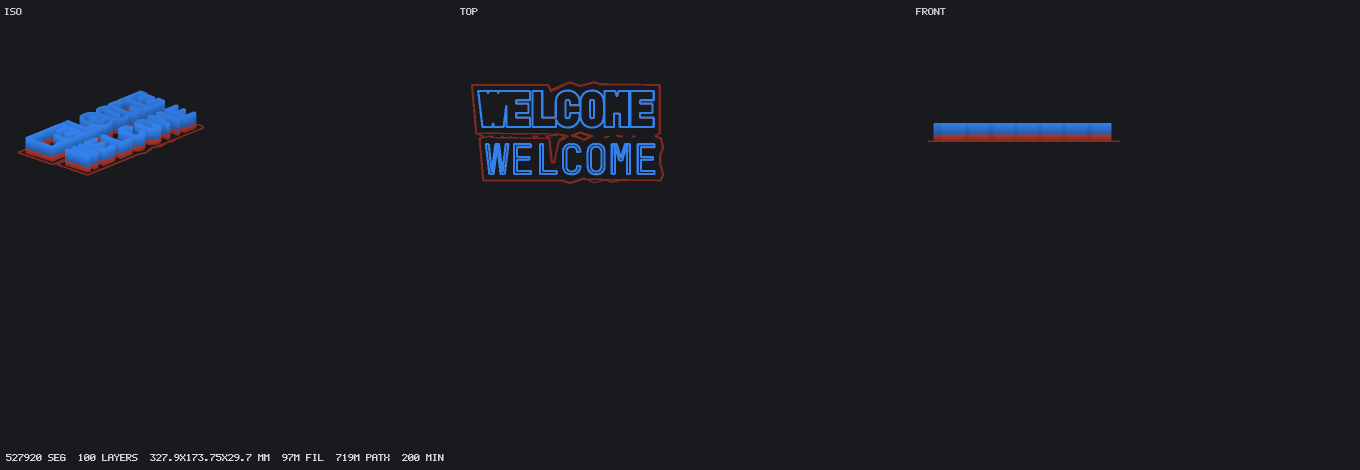
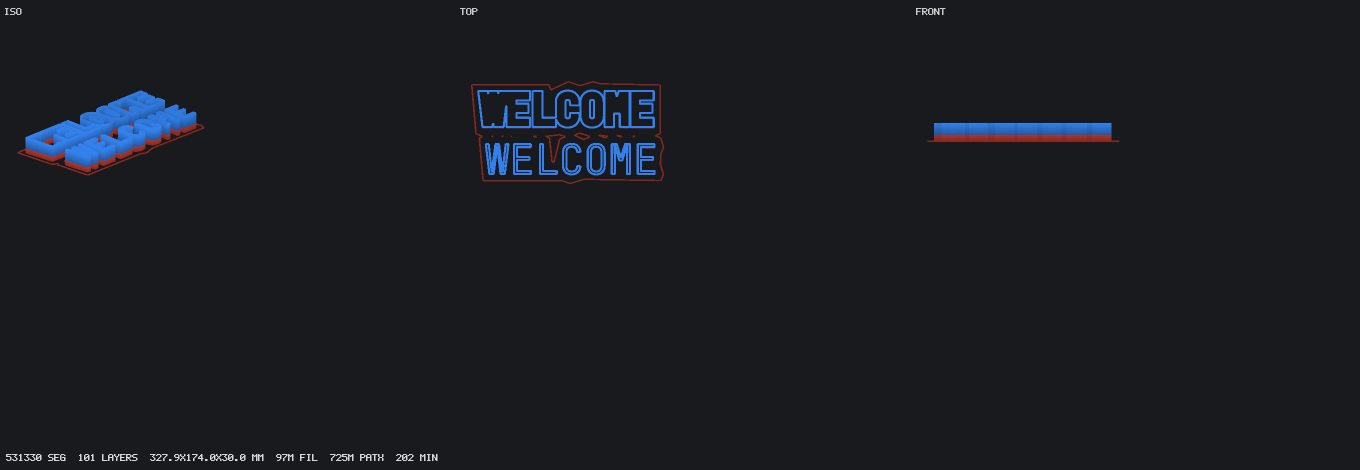
revision 3: layer count floor+1 proven by a real ZCCAD 30mm export; conditional extruder-switch marker; --pre-passes flag

diff --git a/.qoder/skills/letterlab-skill/scripts/dialect_check.py b/.qoder/skills/letterlab-skill/scripts/dialect_check.py
@@ -39,10 +39,18 @@ def shape(line):
 
 
 def scan(path):
-    """Return (shapes, e_per_mm_samples, markers) for one file."""
+    """Return (shapes, e_per_mm_samples, markers, body_tools) for one file.
+
+    `body_tools` counts only the tools that appear AFTER the first
+    `;start printf`, i.e. the ones that actually print. Every export pre-heats and
+    purges every configured nozzle, so counting all `T` words would report a
+    single-colour job as two tools.
+    """
     shapes = set()
     markers = []
     ratios = []
+    body = False
+    body_tools = set()
     x = y = z = 0.0
     e_abs = 0.0
     rel = False
@@ -53,9 +61,13 @@ def scan(path):
                 continue
             if s.startswith(";"):
                 markers.append(s)
+                if s == ";start printf":
+                    body = True
                 continue
             if RT.match(s):
                 shapes.add(shape(s))
+                if body:
+                    body_tools.add(int(RT.match(s).group(1)))
                 continue
             if s.startswith("G92"):
                 v = {k: float(n) for k, n in RX.findall(s)}
@@ -94,7 +106,7 @@ def scan(path):
                 if d > 1e-6:
                     ratios.append(de / d)
             x, y, z = nx, ny, nz
-    return shapes, ratios, markers
+    return shapes, ratios, markers, body_tools
 
 
 def main(argv):
@@ -135,7 +147,7 @@ def main(argv):
     n_ok = 0
     print("== corpus ==")
     for f in files:
-        sh, ratios, mk = scan(f)
+        sh, ratios, mk, _ = scan(f)
         r = sorted(ratios)
         med = r[len(r) // 2] if r else None
         # a file whose E/mm is orders of magnitude off is a broken export, not a
@@ -173,12 +185,17 @@ def main(argv):
     bad = 0
     for t in tests:
         print("\n== test: %s ==" % os.path.basename(t))
-        sh, ratios, mk = scan(t)
+        sh, ratios, mk, body_tools = scan(t)
         novel = sorted(sh - set(vocab))
+        # `;extruder switch` is not universal: the vendor's own single-tool export
+        # (101 layers, T0 only) omits it, while every 2- and 3-tool export has it.
+        req = set(required)
+        if len(body_tools) <= 1:
+            req.discard(";extruder switch")
         r = sorted(ratios)
         emm = r[len(r) // 2] if r else 0.0
         dev = abs(emm - ref) / ref if ref else 1.0
-        missing = sorted(required - set(mk))
+        missing = sorted(req - set(mk))
         ok = not novel and dev < 1e-6 and not missing
 
         print("   line shapes   : %d" % len(sh))
@@ -191,6 +208,10 @@ def main(argv):
               % (len(mk), len(missing), "" if not missing else "<-- MISSING"))
         for m in missing:
             print("        %s" % m)
+        print("   tools printing: %d%s"
+              % (len(body_tools),
+                 "  (single tool: `;extruder switch` not required)"
+                 if len(body_tools) <= 1 else ""))
         print("   verdict       : %s" % ("CONFORMS" if ok else "DOES NOT CONFORM"))
         if not ok:
             bad += 1

diff --git a/.qoder/skills/letterlab-skill/scripts/selftest.py b/.qoder/skills/letterlab-skill/scripts/selftest.py
@@ -202,13 +202,33 @@ def test_hem():
 
 
 def _gen(out):
+    return _gen_args(out, [])
+
+
+# The golden reference A_SAMPLE_50mm.gcode was built with these exact parameters.
+# They must be passed explicitly: the live S528\GcodePara.ini changes whenever
+# someone works in the GUI, and reading height from it silently compared a 30 mm
+# job against a 50 mm reference.
+GOLDEN_ARGS = ["--height", "50", "--layer", "0.3", "--width", "1.2",
+               "--passes", "1", "--spacing", "0.8",
+               "--bands", "10,30,10", "--glue", "1,2,1",
+               "--speed", "3600", "--first-speed", "1800", "--pre-passes", "2"]
+
+
+def _gen_args(out, extra):
+    """Generate with the golden parameters, then any test-specific overrides.
+
+    Later options win in argparse, so `extra` can override `--height` and
+    `--bands` for tests that need a different job shape.
+    """
     env = dict(os.environ)
     env["PYTHONPATH"] = os.path.join(REPO, "work")
-    return subprocess.run(
-        ["python", "-m", "lettergcode", "--dxf", FIXTURE, "--out", out,
-         "--ini", os.path.join(REPO, "S528", "GcodePara.ini")],
-        cwd=os.path.join(REPO, "work"), env=env,
-        stdout=subprocess.DEVNULL, stderr=subprocess.DEVNULL).returncode
+    cmd = (["python", "-m", "lettergcode", "--dxf", FIXTURE, "--out", out,
+            "--ini", os.path.join(REPO, "S528", "GcodePara.ini")]
+           + GOLDEN_ARGS + list(extra))
+    return subprocess.run(cmd, cwd=os.path.join(REPO, "work"), env=env,
+                          stdout=subprocess.DEVNULL,
+                          stderr=subprocess.DEVNULL).returncode
 
 
 def _vendor_refs_present():
@@ -287,17 +307,6 @@ def test_simulator(tmp):
     check("T8 simulator tool/layer/E-modal", ok_tools and ok_layers and ok_rel,
           "tools=%s layers=%d len=%s" % (st["tools"], st["layers"],
                                          {k: round(v, 1) for k, v in st["length_by_tool_mm"].items()}))
-
-
-def _gen_args(out, extra):
-    """Generate with extra CLI flags, so a test can drive a specific job shape."""
-    env = dict(os.environ)
-    env["PYTHONPATH"] = os.path.join(REPO, "work")
-    cmd = ["python", "-m", "lettergcode", "--dxf", FIXTURE, "--out", out,
-           "--ini", os.path.join(REPO, "S528", "GcodePara.ini")] + list(extra)
-    return subprocess.run(cmd, cwd=os.path.join(REPO, "work"), env=env,
-                          stdout=subprocess.DEVNULL,
-                          stderr=subprocess.DEVNULL).returncode
 
 
 def test_no_zero_temp(tmp):

diff --git a/work/lettergcode/params.py b/work/lettergcode/params.py
@@ -11,20 +11,27 @@ from dataclasses import dataclass, field, fields
 
 
 def _layers_for(mm, h):
-    """Layer count for a height, rounded the way ZCCAD rounds it: UP.
+    """Layer index a height maps to, the way ZCCAD computes it: floor + 1.
 
-    Measured against a 3-tool vendor export (`TES .gcode`, 50.1 mm, bands
-    10/30/10): the first band boundary sits at z=10.20, which is 34 layers, not
-    the 33 that rounding gives. 10 / 0.3 = 33.33, and ZCCAD rounds up so a band is
-    never thinner than asked. The total is 167 layers either way here, so the band
-    boundary is what exposes the rule.
+    Proven on four independent exports whose requested height is known:
 
-    The epsilon keeps float noise from adding a phantom layer: 9 / 0.3 evaluates
-    to 30.000000000000004, which must still be 30 layers.
+        30 mm / 0.3  -> 101 layers, top z=30.30   (`welcome tes.gcode`, `1.gcode`)
+        50 mm / 0.3  -> 167 layers, top z=50.10   (`A_SAMPLE_50mm.gcode`, `TES .gcode`)
+        30 mm / 0.5  ->  61 layers, top z=30.50   (`Welcome new tes.gcode`)
+
+    `ceil` agrees with all three except where the division is exact, and an exact
+    division is precisely the 30 mm case: ceil gives 100, the vendor gives 101.
+    ZCCAD always rounds up by one extra layer, so the part is never short.
+
+    Used for both the total layer count and cumulative colour-band boundaries;
+    callers must pass a CUMULATIVE height for bands, not the per-band height.
+
+    The epsilon absorbs float noise: 30 / 0.3 evaluates to 100.00000000000001
+    and must floor to 100, not 101.
     """
     if not h or h <= 0:
         return 1
-    return max(1, int(math.ceil(mm / h - 1e-9)))
+    return max(1, int(math.floor(mm / h + 1e-9)) + 1)
 
 
 def _f(v, default=0.0):
@@ -270,11 +277,16 @@ class Params:
         if self.reverse_zones:
             zones.reverse()
         plan = []
+        cum = 0.0
         for i, (hi, gl) in enumerate(zones):
             if i == len(zones) - 1:
                 k = total - len(plan)
             else:
-                k = _layers_for(hi, h)
+                # cumulative, not per-band: ZCCAD's boundary for a 10 mm band is
+                # layer 34 and for 10+30 mm it is layer 134, which only a
+                # cumulative floor+1 reproduces.
+                cum += hi
+                k = _layers_for(cum, h) - len(plan)
             plan.extend([gl] * max(0, k))
         plan = plan[:total]
         while len(plan) < total:

diff --git a/.qoder/skills/letterlab-skill/scripts/letterlab.py b/.qoder/skills/letterlab-skill/scripts/letterlab.py
@@ -67,6 +67,7 @@ def cmd_generate(a, rest=None):
                       ("--seat-w", a.seat_w), ("--min-area", a.min_area),
                       ("--max-area", a.max_area), ("--seat-depth", a.seat_depth),
                       ("--seat-land", a.seat_land), ("--seat-ramp", a.seat_ramp),
+                      ("--pre-passes", a.pre_passes),
                       ("--place", a.place), ("--offset", a.offset),
                       ("--cell", a.cell), ("--fill-spacing", a.fill_spacing)):
         if val is not None and val != "":
@@ -206,6 +207,11 @@ def build(argv):
                             "3 mm sheet means --seat-depth 3")
         p.add_argument("--seat-land", dest="seat_land", default=None)
         p.add_argument("--seat-ramp", dest="seat_ramp", default=None)
+        p.add_argument("--pre-passes", dest="pre_passes", default=None,
+                       help="number of prevent-curl frame passes (INI "
+                            "iNumPreSide). The vendor emits one ';start printf' "
+                            "marker per pass, so compare against a reference "
+                            "built with the same count")
         p.add_argument("--min-area", dest="min_area", default=None)
         p.add_argument("--max-area", dest="max_area", default=None,
                        help="drop contours larger than this mm2 (machine-bed "

diff --git a/work/lettergcode/cli.py b/work/lettergcode/cli.py
@@ -71,6 +71,9 @@ def main(argv=None):
     ap.add_argument("--cell", type=float, default=0.25,
                     help="distance-field resolution in mm (default 0.25)")
     ap.add_argument("--no-pre-side", action="store_true", help="skip the prevent-curl frame")
+    ap.add_argument("--pre-passes", type=int, default=None, metavar="N",
+                    help="number of prevent-curl frame passes (INI iNumPreSide). "
+                         "The vendor emits one ';start printf' marker per pass")
     ap.add_argument("--first-layer-fill", action="store_true",
                     help="hatch the first layer solid for bed adhesion")
     ap.add_argument("--fill-spacing", type=float, default=0.8)
@@ -104,6 +107,11 @@ def main(argv=None):
         par.seat.depth = args.seat_depth
         par.seat.land = args.seat_land
         par.seat.ramp = args.seat_ramp
+    if args.pre_passes is not None:
+        # iNumPreSide: the pre-side frame emits one `;start printf` per pass, so
+        # this changes the marker count and must be explicit when comparing
+        # against a reference export.
+        par.let.iNumPreSide = max(0, int(args.pre_passes))
     if args.bands:
         vals = [float(v) for v in args.bands.split(",") if v.strip()]
         if not vals:

diff --git a/work/lettergcode/gcode.py b/work/lettergcode/gcode.py
@@ -127,7 +127,13 @@ class GCodeWriter:
     def write_initial_switch(self, first_tool):
         pr = self.p
         idle = self.idle
-        self.w(";extruder switch")
+        # The marker is NOT universal: a vendor single-tool export
+        # (`welcome tes.gcode`, 101 layers, T0 only) contains no `;extruder
+        # switch` at all, while every 2- and 3-tool export does. Emit it only
+        # when the colour plan actually asks for more than one tool.
+        multi = len({self.tool_for_glue(g) for g in pr.band_plan()}) > 1
+        if multi:
+            self.w(";extruder switch")
         self.w("G92 E0")
         self.w("G91")
         self.w(f"G0 X5 Y5 F{idle}")

diff --git a/artifacts/MANIFEST.md b/artifacts/MANIFEST.md
@@ -26,18 +26,25 @@ validated one.
 | File | Bytes | SHA-256 | Job |
 |---|---|---|---|
[7 lines of base64/hex data omitted]
 
-### Revision 2
+### Revision 3
 
-These files were regenerated after the corpus audit found three defects (see
-`docs/DIALECT_CORPUS.md`): a nozzle was cooled with `M104 S0` before its own first
-layer, band boundaries rounded instead of rounded up, and nothing checked the
-instruction vocabulary. Layer counts therefore changed for heights that are not a
-whole multiple of 0.3 mm — a 40 mm job is now 134 layers to z=40.20, not 133 to
-z=39.90. **Hash values from revision 1 no longer apply.**
+A real ZCCAD export (`welcome tes.gcode`, 30 mm, WELCOME) settled the layer-count
+rule. ZCCAD uses **`floor(height / layer) + 1`**, not `ceil`. For a 30 mm job that is
+101 layers to z=30.30, where the previous rule gave 100 to z=30.00. Heights that are
+not a whole multiple of the layer height are unaffected (40 mm stays 134, 10 mm stays
+34); only exact multiples change.
+
+Also in revision 3:
+
+- `;extruder switch` is emitted **only when the colour plan uses more than one tool**.
+  The vendor's own single-tool export omits it entirely.
+- New `--pre-passes` flag exposes `iNumPreSide`. The vendor writes one
+  `;start printf` marker per pre-side pass, so a reference built with 2 passes will
+  not match a file generated with 1. Hash values from revisions 1 and 2 no longer apply.
 
 Verify a local copy:
 
@@ -55,9 +62,9 @@ generator's internal model.
 | File | Layers | Size (mm) | Tools | Print time | Filament |
 |---|---|---|---|---|---|
 | `TEST1_A_50mm_ref` | 167 | 109.8 x 125.6 x 49.8 | T0, T1 | 43 min | 21 m |
-| `TEST2_BALI_40mm` | 134 | 325.7 x 196.4 x 40.2 | T0 | 336 min | 162 m |
-| `TEST3_WELCOME_30mm` | 100 | 327.9 x 173.8 x 29.7 | T0, T1 | 201 min | 97 m |
-| `TEST4_BALI_10mm_smoke` | 34 | 325.7 x 196.4 x 10.2 | T0 | 71 min | 34 m |
+| `TEST2_BALI_40mm` | 134 | 325.7 x 196.4 x 40.2 | T0 | 335 min | 162 m |
+| `TEST3_WELCOME_30mm` | 101 | 327.9 x 174.0 x 30.3 | T0, T1 | 202 min | 97 m |
+| `TEST4_BALI_10mm_smoke` | 34 | 325.7 x 196.4 x 10.2 | T0 | 70 min | 34 m |
 
 ---
 

diff --git a/docs/DIALECT_CORPUS.md b/docs/DIALECT_CORPUS.md
@@ -30,6 +30,31 @@ distinct files.
 | `test 2.gcode` | 50 | 0.3 – 15.0 | 0.3 | T0,T1 | 351.70 x 207.82 | 42.2 m | 31 |
 | `W_bevel_30mm_BRAIN_R0.gcode` | 100 | 0.3 – 30.0 | 0.3 | T0,T1 | 79.87 x 95.11 | 54.8 m | 31 |
 | `W_tegak_15mm_BRAIN_R0.gcode` | 50 | 0.3 – 15.0 | 0.3 | T0,T1 | 79.87 x 95.11 | 40.3 m | 31 |
+| `welcome_tes_ZCCAD.gcode` | 101 | 0.3 – 30.3 | 0.3 | **T0 only** | 321.17 x 82.92 | 196.8 m | 31 |
+
+### The 30 mm export that settled the layer rule
+
+`welcome tes.gcode` is the single most useful file in the corpus: it is a real ZCCAD
+export where the requested height is known to be **30 mm**, and it contains
+**101 layers ending at z = 30.30**. That is `floor(30 / 0.3) + 1`, not
+`ceil(30 / 0.3)` = 100.
+
+Cross-checked against every other export with a known height:
+
+| Requested | Rule `floor(H/h)+1` | Observed | Matches |
+|---|---|---|---|
+| 30 mm / 0.3 | 101 → z 30.30 | `welcome tes`, `1.gcode` | yes |
+| 50 mm / 0.3 | 167 → z 50.10 | `A_SAMPLE_50mm`, `TES` | yes |
+| 30 mm / 0.5 | 61 → z 30.50 | `Welcome new tes` | yes |
+| 40 mm / 0.3 | 134 → z 40.20 | — | consistent |
+| 10 mm / 0.3 | 34 → z 10.20 | — | consistent |
+
+`ceil` agrees everywhere except an exact multiple, and 30 mm is exactly that case.
+ZCCAD deliberately overshoots by one layer so a part is never short.
+
+Also from this file: **`;extruder switch` is not universal.** It appears in every 2-
+and 3-tool export and is entirely absent from this single-tool one, so it is
+required only when the colour plan actually prints with more than one tool.
 
 `arr.gcode` and `Welcome new tes.gcode` report fewer printed layers than the Z
 range implies because a tool change skips one layer height — see *Quirks* below.
@@ -109,14 +134,16 @@ job resolved to T1, so the "is T0 active" test failed and the code cooled it.
 Fixed: the writer delegates to `Params.tool_no`, and the line is always
 `M104 S<iT0> T0` like the vendor. Guarded by selftest T11 and T12.
 
-### 2. Band boundaries rounded instead of ceiled
+### 2. Band boundaries and layer count use floor+1, not ceil
 
-A 10 mm band became 33 layers; ZCCAD makes 34. Fixed in `params._layers_for`
-(`ceil(x - 1e-9)`, the epsilon stops `9 / 0.3 = 30.000000000000004` from becoming
-31 layers). Total layer count uses the same rule.
+A 10 mm band became 33 layers and ZCCAD makes 34, so the rule was changed to
+`ceil`. A real 30 mm export later showed that was still wrong: ZCCAD's rule is
+`floor(H/h) + 1`, which for 10 mm also gives 34 but for an exact 30 mm gives 101
+rather than 100.
 
-Effect: a 40 mm job is now 134 layers to z=40.20 instead of 133 to z=39.90.
-Guarded by selftest T4.
+Fixed in `params._layers_for`, with the cumulative-height correction in
+`band_plan` (the 10+30 mm boundary is layer 134, which only a cumulative formula
+reproduces). Guarded by selftest T4.
 
 ### 3. Nothing checked the instruction vocabulary
 

diff --git a/README.md b/README.md
@@ -19,10 +19,10 @@ The generated files are published as release assets:
 
 | File | Job | Layers | Time | Filament |
 |---|---|---|---|---|
-| `TEST4_BALI_10mm_smoke.gcode` | machine proof, 10 mm — **print this first** | 34 | 71 min | 34 m |
-| `TEST2_BALI_40mm.gcode` | production job, 40 mm, 3 mm acrylic pocket | 134 | 336 min | 162 m |
+| `TEST4_BALI_10mm_smoke.gcode` | machine proof, 10 mm — **print this first** | 34 | 70 min | 34 m |
+| `TEST2_BALI_40mm.gcode` | production job, 40 mm, 3 mm acrylic pocket | 134 | 335 min | 162 m |
 | `TEST1_A_50mm_ref.gcode` | vendor cross-check, 2-colour | 167 | 43 min | 21 m |
-| `TEST3_WELCOME_30mm.gcode` | 2-colour band test | 100 | 201 min | 97 m |
+| `TEST3_WELCOME_30mm.gcode` | 2-colour band test | 101 | 202 min | 97 m |
 | `SHA256SUMS.txt` | checksums for all of the above | — | — | — |
 
 Integrity is pinned twice: in `SHA256SUMS.txt` on the release, and in
